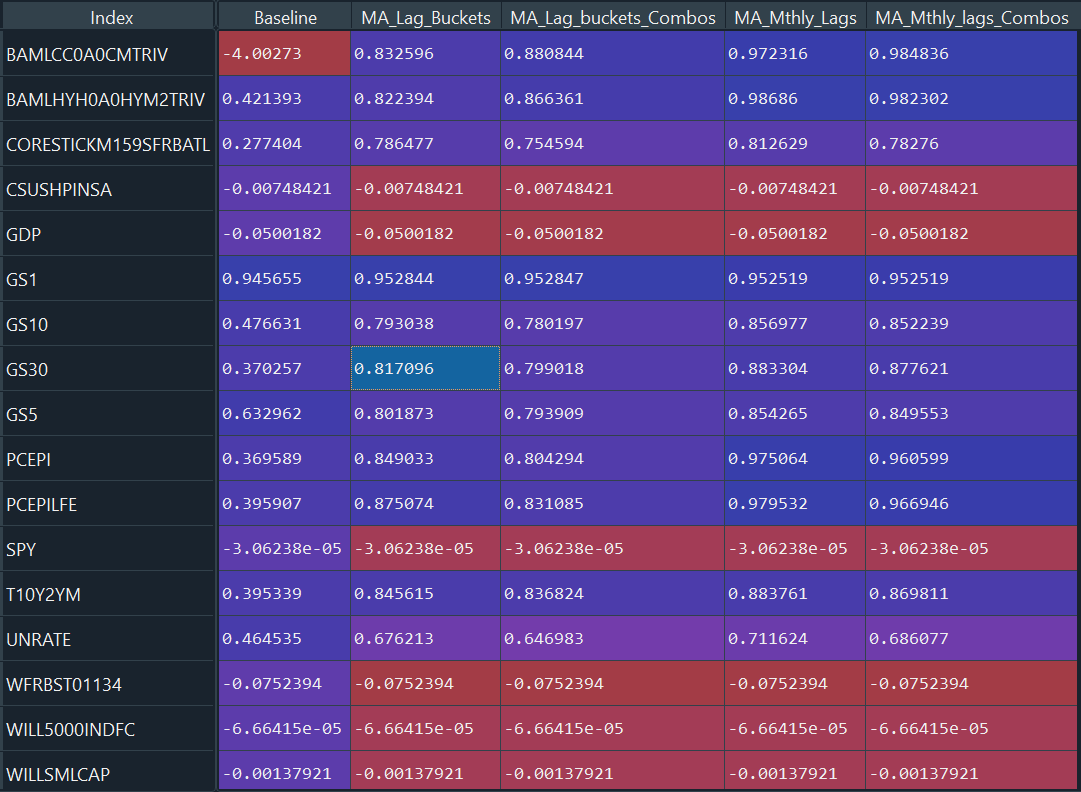
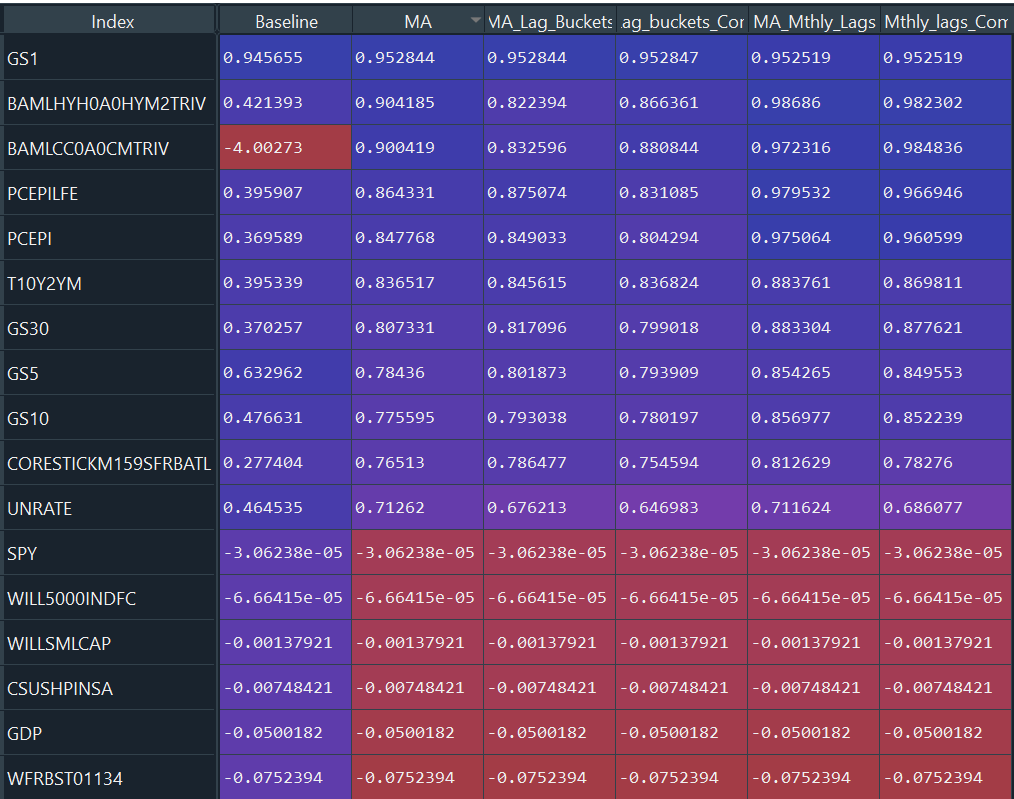
update model analysis

diff --git a/Model Analysis.py b/Model Analysis.py
@@ -10,8 +10,14 @@ import numpy as np
 import itertools
 import matplotlib.pyplot as plt
 
+def MA(X,window_size=24):
+    df=X.copy()
+    for x in df.columns:
+        df[str(x) + '_MA_' + str(window_size)] = df[x].rolling(window=window_size).mean()
+    return df
+
 def TS_pipe(X,window_size=24):
-    df=X
+    df=X.copy()
     df_1=df
     for window in range(1, window_size + 1):
         shifted = df_1.shift(window)
@@ -22,7 +28,7 @@ def TS_pipe(X,window_size=24):
 
 def TS_lag_buckets(X,window_size=24,lag_buckets=4):
     bucket_size=int(window_size/lag_buckets)
-    df=X
+    df=X.copy()
     df_1=df
     for window in np.arange(1, window_size+1,bucket_size):
         shifted = df_1.shift(window)
@@ -69,6 +75,7 @@ def acc_plot(y,y_pred,name,R2_score):
     plt.xlabel('Actual')
     plt.ylabel('Predicted')
     return plt
+
 
 #bring in dataframes
 Text_DF=pd.read_csv('text_sent_1.csv',index_col='Date',parse_dates=['Date'])
@@ -246,6 +253,35 @@ for y in D_df_post_2003.columns:
 
 coef_df_LB_1=coef_DF(lasso_coef_LB_1,I_df_LB_post_2003_1,lasso_R2_LB_1,R_val=.5)
 
+#Lasso with MA only
+
+I_df_MA=MA(I_df_transform)
+I_df_MA_post_2003=I_df_MA[~(I_df_MA.index<'2003-01-01')]
+
+
+lasso_coef_MA={}
+lasso_alpha_MA={}
+lasso_model_MA={}
+lasso_R2_MA={}
+lasso_predict_MA={}
+lasso_y_actual_MA={}
+for y in D_df_post_2003.columns:
+    print("Working on model for " + str(y))
+    X=scaler.fit_transform(I_df_MA_post_2003)
+    Y=D_df_post_2003[y]
+    n=y
+    X_train, X_test, y_train, y_test = train_test_split(X, Y, test_size=0.25, random_state=42)
+    y = LassoCV(cv=5, random_state=42,alphas=[.025,.05,.075,.1,.2,.3,.4,.5,.7],max_iter=5000).fit(X_train, y_train)
+    lasso_coef_MA[n]=y.coef_
+    lasso_alpha_MA[n]=y.alpha_   
+    lasso_model_MA[n]=y
+    lasso_R2_MA[n]=y.score(X_test,y_test)
+    lasso_predict_MA[n]=y.predict(X_test)
+    lasso_y_actual_MA[n]=y_test
+
+coef_df_MA=coef_DF(lasso_coef_MA,I_df_MA_post_2003,lasso_R2_MA,R_val=.5)
+
+"""
 #plot predicted vs actual combo vars
 for key in lasso_y_actual:
     j=key
@@ -273,37 +309,8 @@ for key in lasso_y_actual_BL:
     j=key
     key=acc_plot(lasso_y_actual_BL[key],lasso_predict_BL[key],key,round(lasso_R2_BL[key],3))
     key.savefig("plots/Predict_Actual/Baseline/"+ str(j) + ".png")
-
+"""
 #save csvs of coefs,r^2,alpha, for all models.
-lasso_alpha_TS
-lasso_R2_TS
-coef_df_TS
-lasso_alpha
-lasso_R2
-coef_df
+lasso_R2_df=pd.DataFrame([lasso_R2_BL,lasso_R2_MA,lasso_R2_LB_1,lasso_R2_TS,lasso_R2_LB,lasso_R2]).T
+lasso_R2_df.columns=['Baseline','MA','MA_Lag_Buckets','MA_Lag_buckets_Combos','MA_Mthly_Lags','MA_Mthly_lags_Combos']
 
-#random forest
-    
-#print charts for R2 metrics, alphas, coeficients
-
-def model_analysis(X,y):
-
-    
-    """
-    X_train, X_test, y_train, y_test = sk.model_selection.train_test_split(np.array(X), np.array(y), test_size=0.25, random_state=42)
-    m = AutoLearner(p_type='regression', runtime_limit=30, method='Oboe',ensemble=True, verbose=False)
-    # fit autolearner on training set and record runtime
-    start = time.time()
-    m.fit(X_train, y_train)
-    elapsed_time = time.time() - start
-    
-    # use the fitted autolearner for prediction on test set
-    y_predicted = m.predict(X_test)
-    print("prediction error: {}".format(error(np.array(y_test), y_predicted, 'classification')))    
-    print("elapsed time: {}".format(elapsed_time))
-    m.get_models()
-    """
-    
-    
-    
-    return

diff --git a/Boosted Regression.py b/Boosted Regression.py
@@ -11,10 +11,13 @@ from IPython.display import Image
 import matplotlib.pyplot as plt
 from matplotlib import pyplot
 
-I_df=pd.read_csv('Independent_post2003.csv',index_col='DATE',parse_dates=['DATE'])
-D_df=pd.read_csv('Dependent_post2003.csv',index_col='DATE',parse_dates=['DATE'])
 
-%pip install xgboost
+
+I_df_MA_1=scaler.fit_transform(I_df_MA_post_2003)
+I_df_MA_1 = pd.DataFrame(I_df_MA_1)
+I_df_MA_1.columns = I_df_MA_1.columns
+I_df_MA_1.index = I_df_MA_1.index
+
 import xgboost as xgb
 
 import sklearn
@@ -22,7 +25,7 @@ from sklearn.model_selection import cross_val_score
 from sklearn.model_selection import RepeatedKFold
 
 kf = sklearn.model_selection.KFold(n_splits=5)
-kf.get_n_splits(I_df)
+kf.get_n_splits(I_df_MA_1)
 
 from sklearn.metrics import mean_squared_error as MSE
 
@@ -35,17 +38,17 @@ accuracyscores = []
 
 #scores for different learning rates
 for i in range(1, 10):
-    for d in range(D_df.shape[1]):
-        y1 = D_df.iloc[:,[d,]]
+    for d in range(D_df_post_2003.shape[1]):
+        y1 = D_df_post_2003.iloc[:,[d,]]
         
-        for train_index, test_index in kf.split(I_df):
-            X_train = np.asarray(I_df.iloc[train_index,:])
-            X_test = np.asarray(I_df.iloc[test_index,:])
+        for train_index, test_index in kf.split(I_df_MA_1):
+            X_train = np.asarray(I_df_MA_1.iloc[train_index,:])
+            X_test = np.asarray(I_df_MA_1.iloc[test_index,:])
             y1_train = np.asarray(y1.iloc[train_index,:])
             y1_test = np.asarray(y1.iloc[test_index,:])
     
         
-        xgb_r = xgb.XGBRegressor(n_estimators = 10, max_depth = 5, learning_rate = i/10,  objective='reg:squarederror')
+        xgb_r = xgb.XGBRegressor(n_estimators = 50, max_depth = 25, learning_rate = i/100,  objective='reg:squarederror')
         xgb_r.fit(X_train, y1_train)
         acc1 = xgb_r.score(X_test, y1_test)
         accuracyscores.append(acc1)
